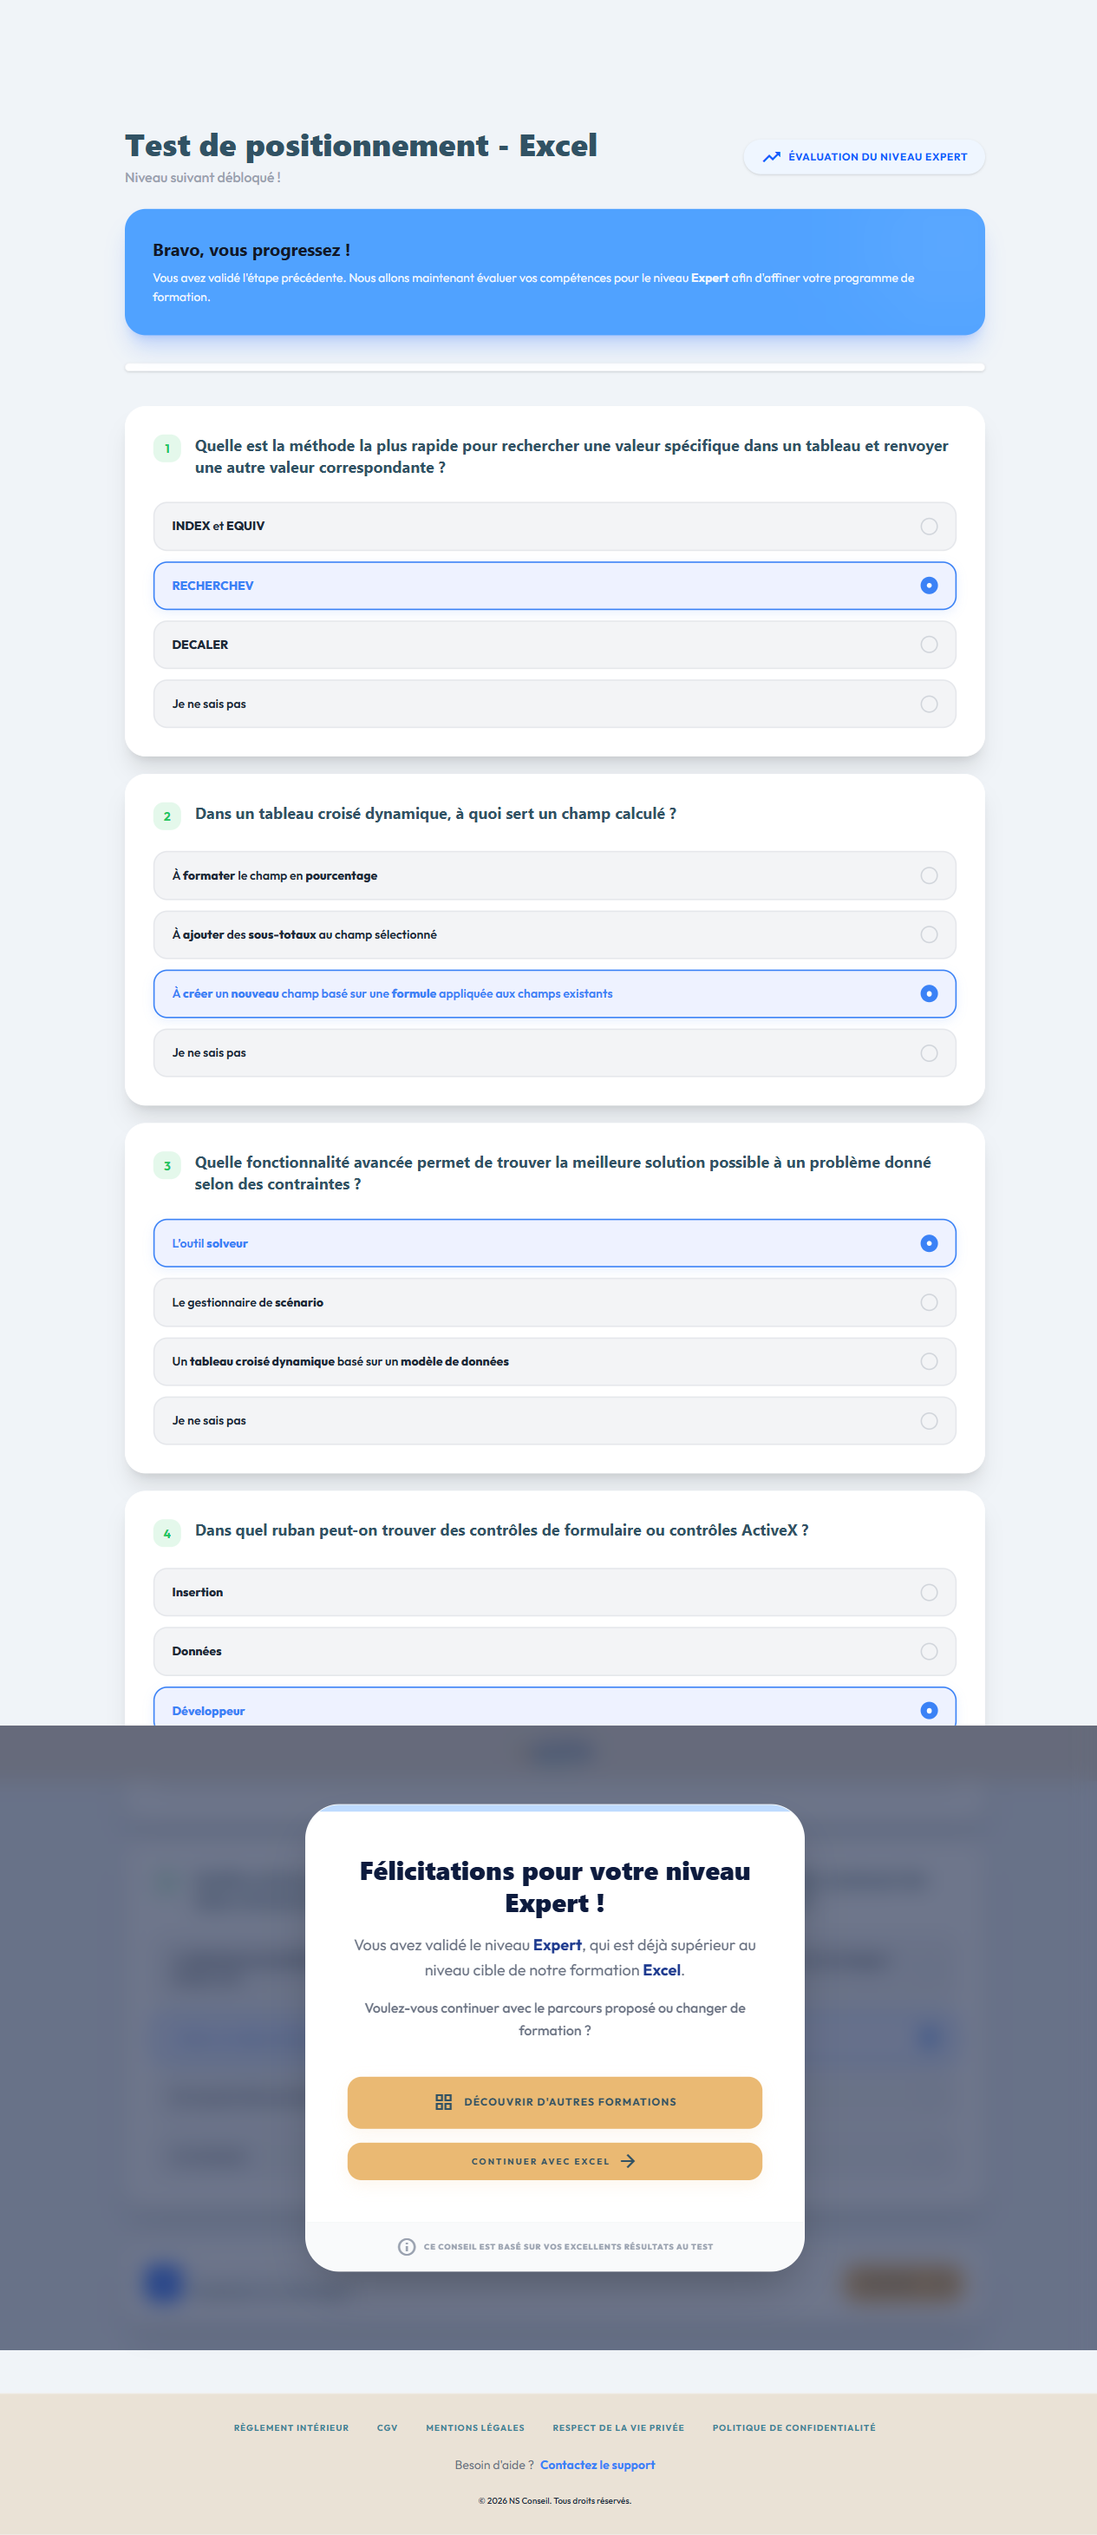
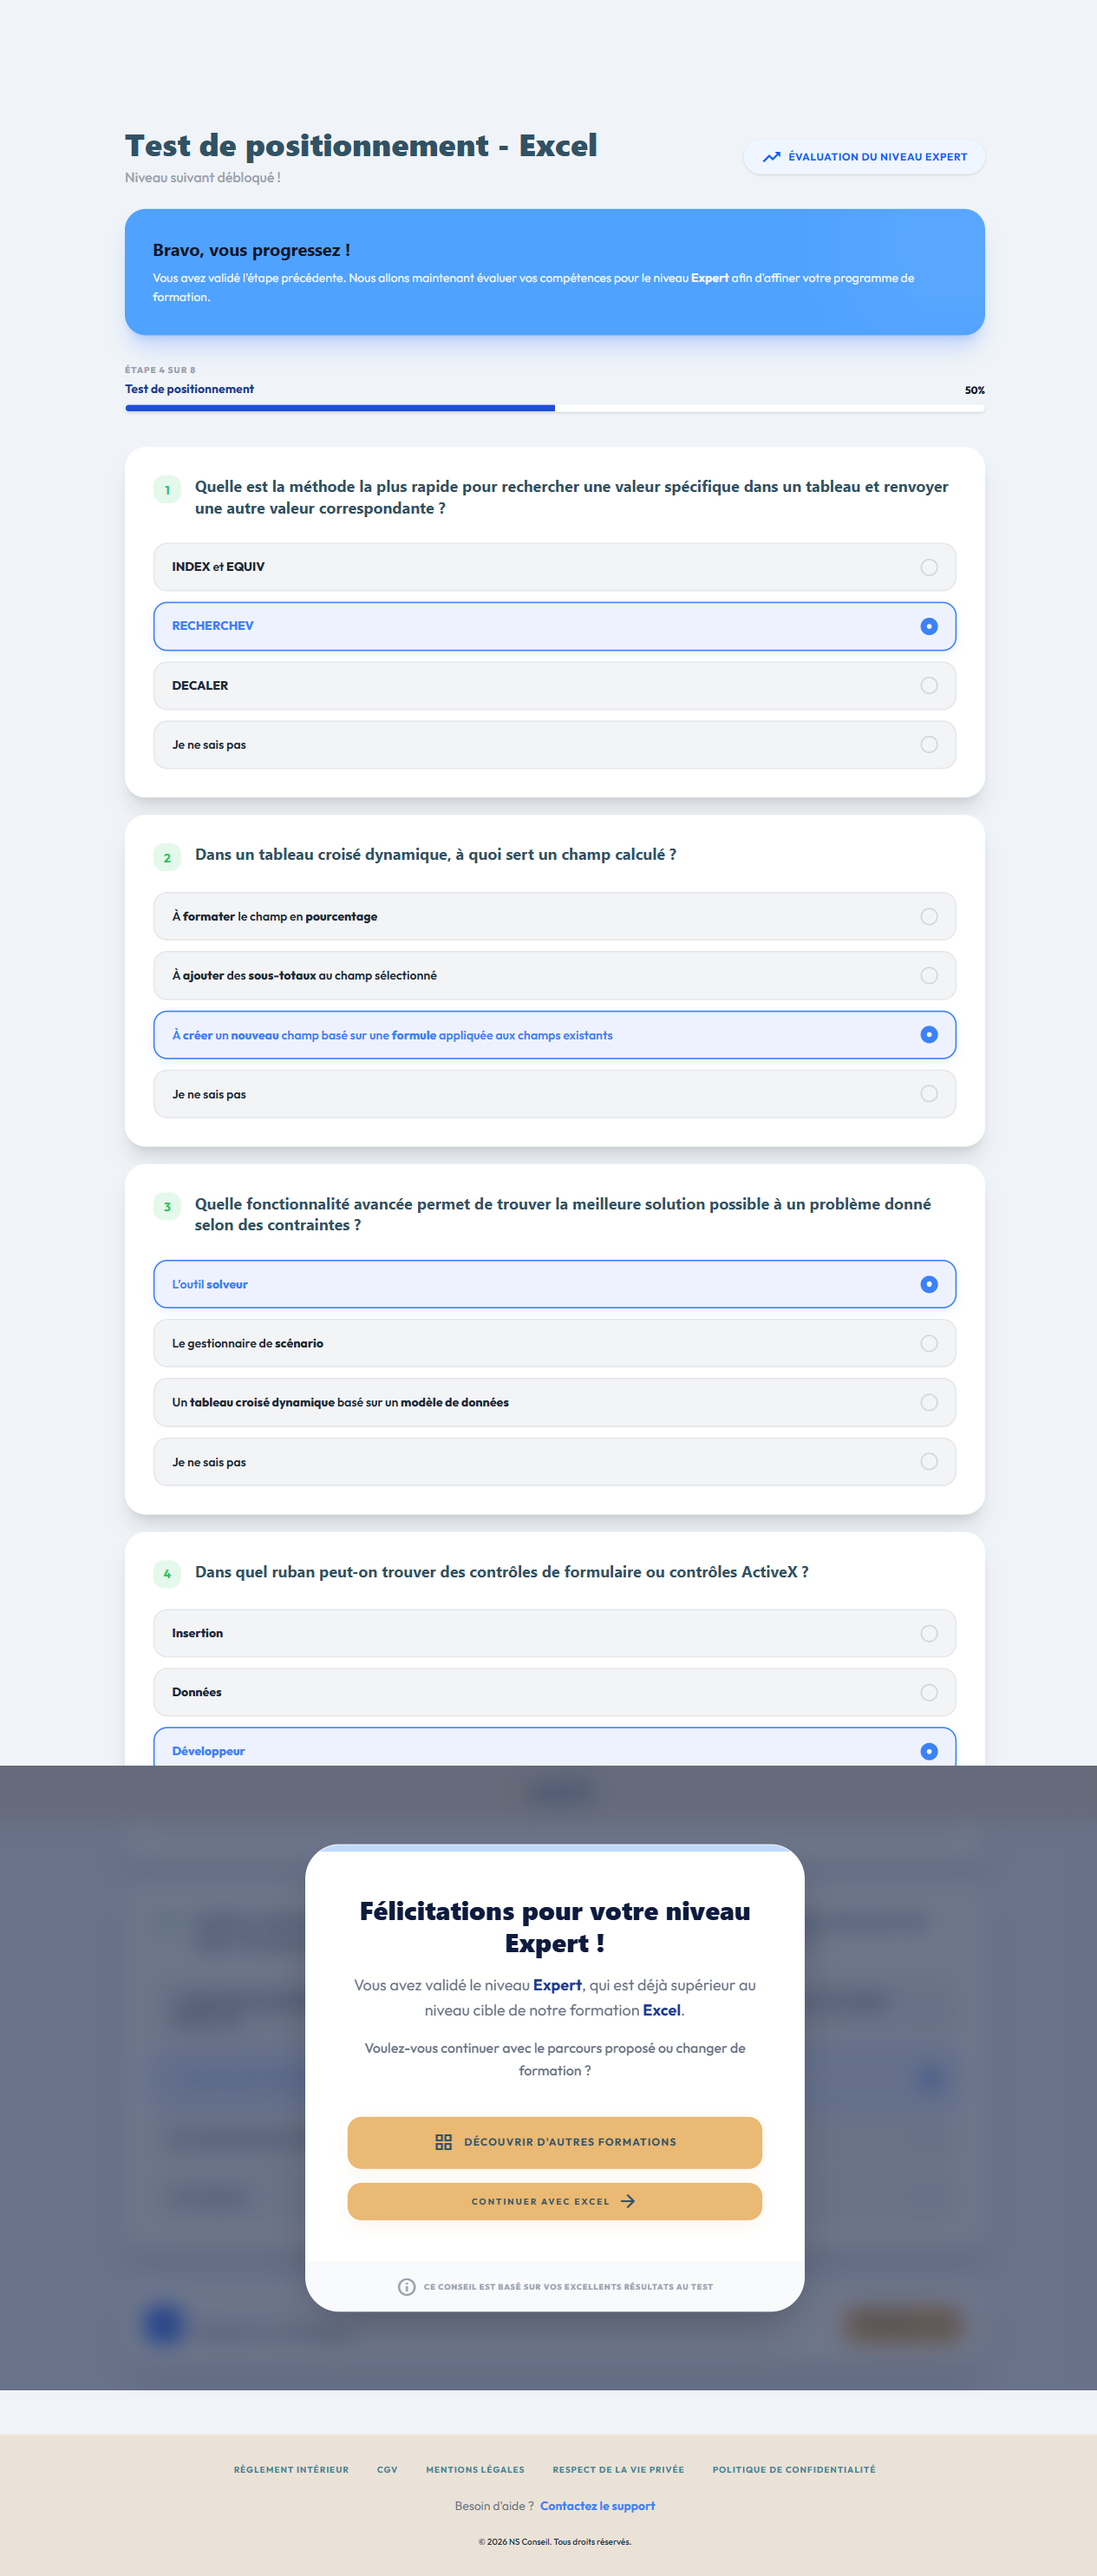
feat: Implement workflow progress bar and positioning view components, and update related Excel images.

diff --git a/playwright-report/index.html b/playwright-report/index.html
@@ -82,4 +82,4 @@ Error generating stack: `+a.message+`
     <div id='root'></div>
   </body>
 </html>
[2 lines of base64/hex data omitted]

diff --git a/projet-app/frontend/src/components/WorkflowProgressBar.vue b/projet-app/frontend/src/components/WorkflowProgressBar.vue
@@ -34,11 +34,9 @@ const progressData = computed(() => {
     </div>
     <div class="w-full h-2.5 bg-white rounded-full overflow-hidden shadow-sm border border-gray-100">
       <div 
-        class="h-full bg-brand-primary transition-all duration-700 ease-out relative" 
-        :style="{ width: progressData.percentage + '%' }"
-      >
-        <div class="absolute inset-0 bg-white/20 animate-pulse"></div>
-      </div>
+        class="h-full transition-all duration-700 ease-out" 
+        :style="{ width: progressData.percentage + '%', backgroundColor: 'var(--brand-primary, #005A9C)' }"
+      ></div>
     </div>
   </div>
 </template>

diff --git a/projet-app/frontend/src/views/PositionnementView.vue b/projet-app/frontend/src/views/PositionnementView.vue
@@ -870,9 +870,7 @@ async function saveAndExit() {
           </div>
 
           <!-- Progress Bar -->
-          <div v-if="store.actualWorkflowSteps.length > 0" class="w-full h-2.5 bg-white rounded-full overflow-hidden mb-8 shadow-sm border border-gray-100">
-            <div class="h-full bg-brand-primary transition-all duration-700" :style="{ width: store.getProgress('/positionnement').percentage + '%' }"></div>
-          </div>
+          <WorkflowProgressBar customPath="/positionnement" />
         </div>
 
           <div
